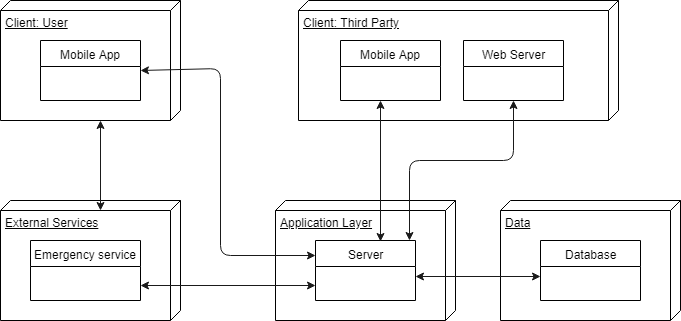
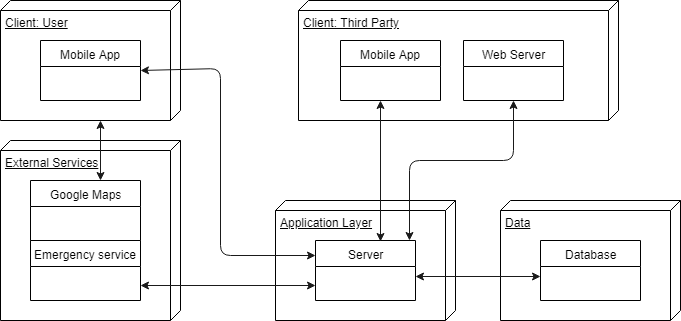
component diagram

diff --git a/DD/Architectural_Design/component_view.tex b/DD/Architectural_Design/component_view.tex
@@ -1,9 +1,30 @@
+\subsection{Structure}
+The presented Component Diagram has the aim to show in a more precise and detailed way which components are in each layer and how they interact.\\
+To be more precise in the left it is possible to see the presentation layer devided in three components:
+\begin{itemize}
+	\item \textbf {User's Mobile App:} it is the user's application via device; that is the only possible interface for a user and it is 			formed by a \textit {Data Collector} and a \textit {Data Processor} components which have the aim to collect data from the 			external device containing all the necessary sensors to gather health parameters of every user ; a \textit {GPS Manager} 			which interfaces directly with Google Maps services needed in case of health parameter under the threshold (see RASD for 			more details); a \textit {GUI Manager} which is foundational to handle all actions made by users and a \textit {Controller} 			which is the bridge between the client's components and the application layer.
+	\item \textbf {Third party's Mobile App:} it is the third party's application via device. This particular stakeholder doesn't need 			any GPS or Data manager because the aim of its app is to obtain data  of a single user or of a group of users, that's the 			reason why it is just formed by a \textit{ GUI Manager} and a \textit {Controller}. The aim of those two elements is the same 			presented for the user's mobile app.
+	\item \textbf {Third Party's Web App:} the different aim of the app related to this stakeholder implies the necessity of a 			desktop application which is dial by the same components of the Mobile one.
+\end{itemize}The application layer is also formed by three different components:
+\begin{itemize}
+	\item \textbf{Application Logic:} it contains the whole logic and algorithms which stay under the application and make it runs in 			a proper way.
+	\item \textbf{ ASOS Manager:} this component is in charge of interfacing with the external emergency service in case the 			related algorithms finds out that the user is an unhealthy one.
+	\item \textbf{Data Persistence Unit:} it has a constant connection to the data layer and it has the aim to handle all possible 			dynamic behaviors related to operations on data.
+\end{itemize}
+\begin{figure}[h!]
+	\includegraphics[width=1.0\textwidth]{./pictures/component_diagram.png}\par
+	\caption{Component diagram}
+\end{figure}
+\FloatBarrier
+
 \subsection{Database}
-The data layer must contain the DB and also a DBMS component necessary to manage all possible operation, such as insertion, deletion, update, that can be done on data inside the storage unit. The chosen DBMS must guarantee the correct working of transaction according to the ACID properties.\\A RDBMS is the best choice for this app because it adheres to the ACID properties; guarantees high performances by using indexis to sort data and by supporting both desktop and web apps and also guarantees data security providing a layer of protection for sensitive data. Using a RDBMS it is also possible to build  the DB structure and clearly define the relations between data.\\ As said in the previous section, the chosen architecture is composed by closed layers and for this reason  the data layer, the one which contains the stored data, can only be accessed by the Application's one, via a dedicated interface. Bacause of this it is necessary to provide a persistence unit which can handle all possible behaviors. Credentials and sensible data as personal informations must be encripted to avoid any possible privacy violation.\\
+The data layer must contain the DB and also a DBMS component necessary to manage all possible operation, such as insertion, deletion, update, that can be done on data inside the storage unit. The chosen DBMS must guarantee the correct working of transaction according to the ACID properties.\\
+A RDBMS is the best choice for this app because it adheres to the ACID properties; guarantees high performances by using indexis to sort data and by supporting both desktop and web apps and also guarantees data security providing a layer of protection for sensitive data. Using a RDBMS it is also possible to build  the DB structure and clearly define the relations between data.\\ 
+As said in the previous section, the chosen architecture is composed by closed layers and for this reason  the data layer, the one which contains the stored data, can only be accessed by the Application's one, via a dedicated interface. Bacause of this it is necessary to provide a persistence unit which can handle all possible behaviors. Credentials and sensible data as personal informations must be encripted to avoid any possible privacy violation.\\
 The Entity Relational diagram in figure describe a first relational model of the Database. The rectangual shapes represent the entities; the circles all possible attributes related to an entity in particular all cirles filled in black are the entities key and the relationships are represented by diamonds.
 
 \begin{figure}[h!]
-	\includegraphics[width=1.20\textwidth]{./pictures/ER_diagram.png}\par
+	\includegraphics[width=1.0\textwidth]{./pictures/ER_diagram.png}\par
 	\caption{Entity Relationship diagram}
 \end{figure}
 \FloatBarrier

diff --git a/DD/Introduction/def_acr_abbr.tex b/DD/Introduction/def_acr_abbr.tex
@@ -1,4 +1,4 @@
-\subsection{Acronyms}
+\subsection{Definitions}
 \begin{itemize}
 	%def related to the software
 	\item{\textbf{TrackMe's system:} the whole software, it's a compact way to refer to all different services that must be developed.}
@@ -10,8 +10,11 @@
 
 	%def related to users
 	\item {\textbf{User:} an individual user of the application who provides data.}
-	\item {\textbf{Third party:} somebody that uses the application because interested in obtaining data of users or groups of users.} 
+	\item {\textbf{Third party:} somebody that uses the application because interested in obtaining data of users or groups of users.}
+\end{itemize}
 
+\subsection{Acronyms} 
+\begin{itemize}
 	%def related to database
 	\item \textbf{ACID:} Atomicity, Consistency, Isolation and Durability. These are all the logic properties that transactions must 	have to guarantee correct operations on the stored data.
 	\item \textbf{DBMS:} the database management system is a software system built to do operations on database in an efficient and correct way.

diff --git a/DD/Appendix/appendix.tex b/DD/Appendix/appendix.tex
@@ -1,0 +1,9 @@
+\section{Software and tools used}
+The following are all tools used to produce this document:
+\begin{itemize}
+	\item \textbf{\LaTeX:} used as typesetting system to build this document;
+	\item \textbf{Draw:} used to draw a few diagrams such as the E-R diagram (online version can be found at \url{http://				www.draw.io});
+	\item \textbf{StarUML:} used to draw some diagrams (the latest version is 3.0.2 and it can be found at \url{http://staruml.io/			download});
+	\item \textbf{GitHub:} used to work in a distributed way and to manage different versions of the document (it can be download at		\url{https://github.com});
+	\item \textbf{GitHub Desktop:} this is the official GitHub app which offers a simple and user friendly way to contribute to a git 			project (it can be download at \url{https://desktop.github.com/});
+\end{itemize}

diff --git a/DD/DD.tex b/DD/DD.tex
@@ -123,6 +123,7 @@
 	%Appendix
 	\appendix
 	\chapter{Appendix}
+	\input{./Appendix/appendix.tex}
 
 \end{document}
 
